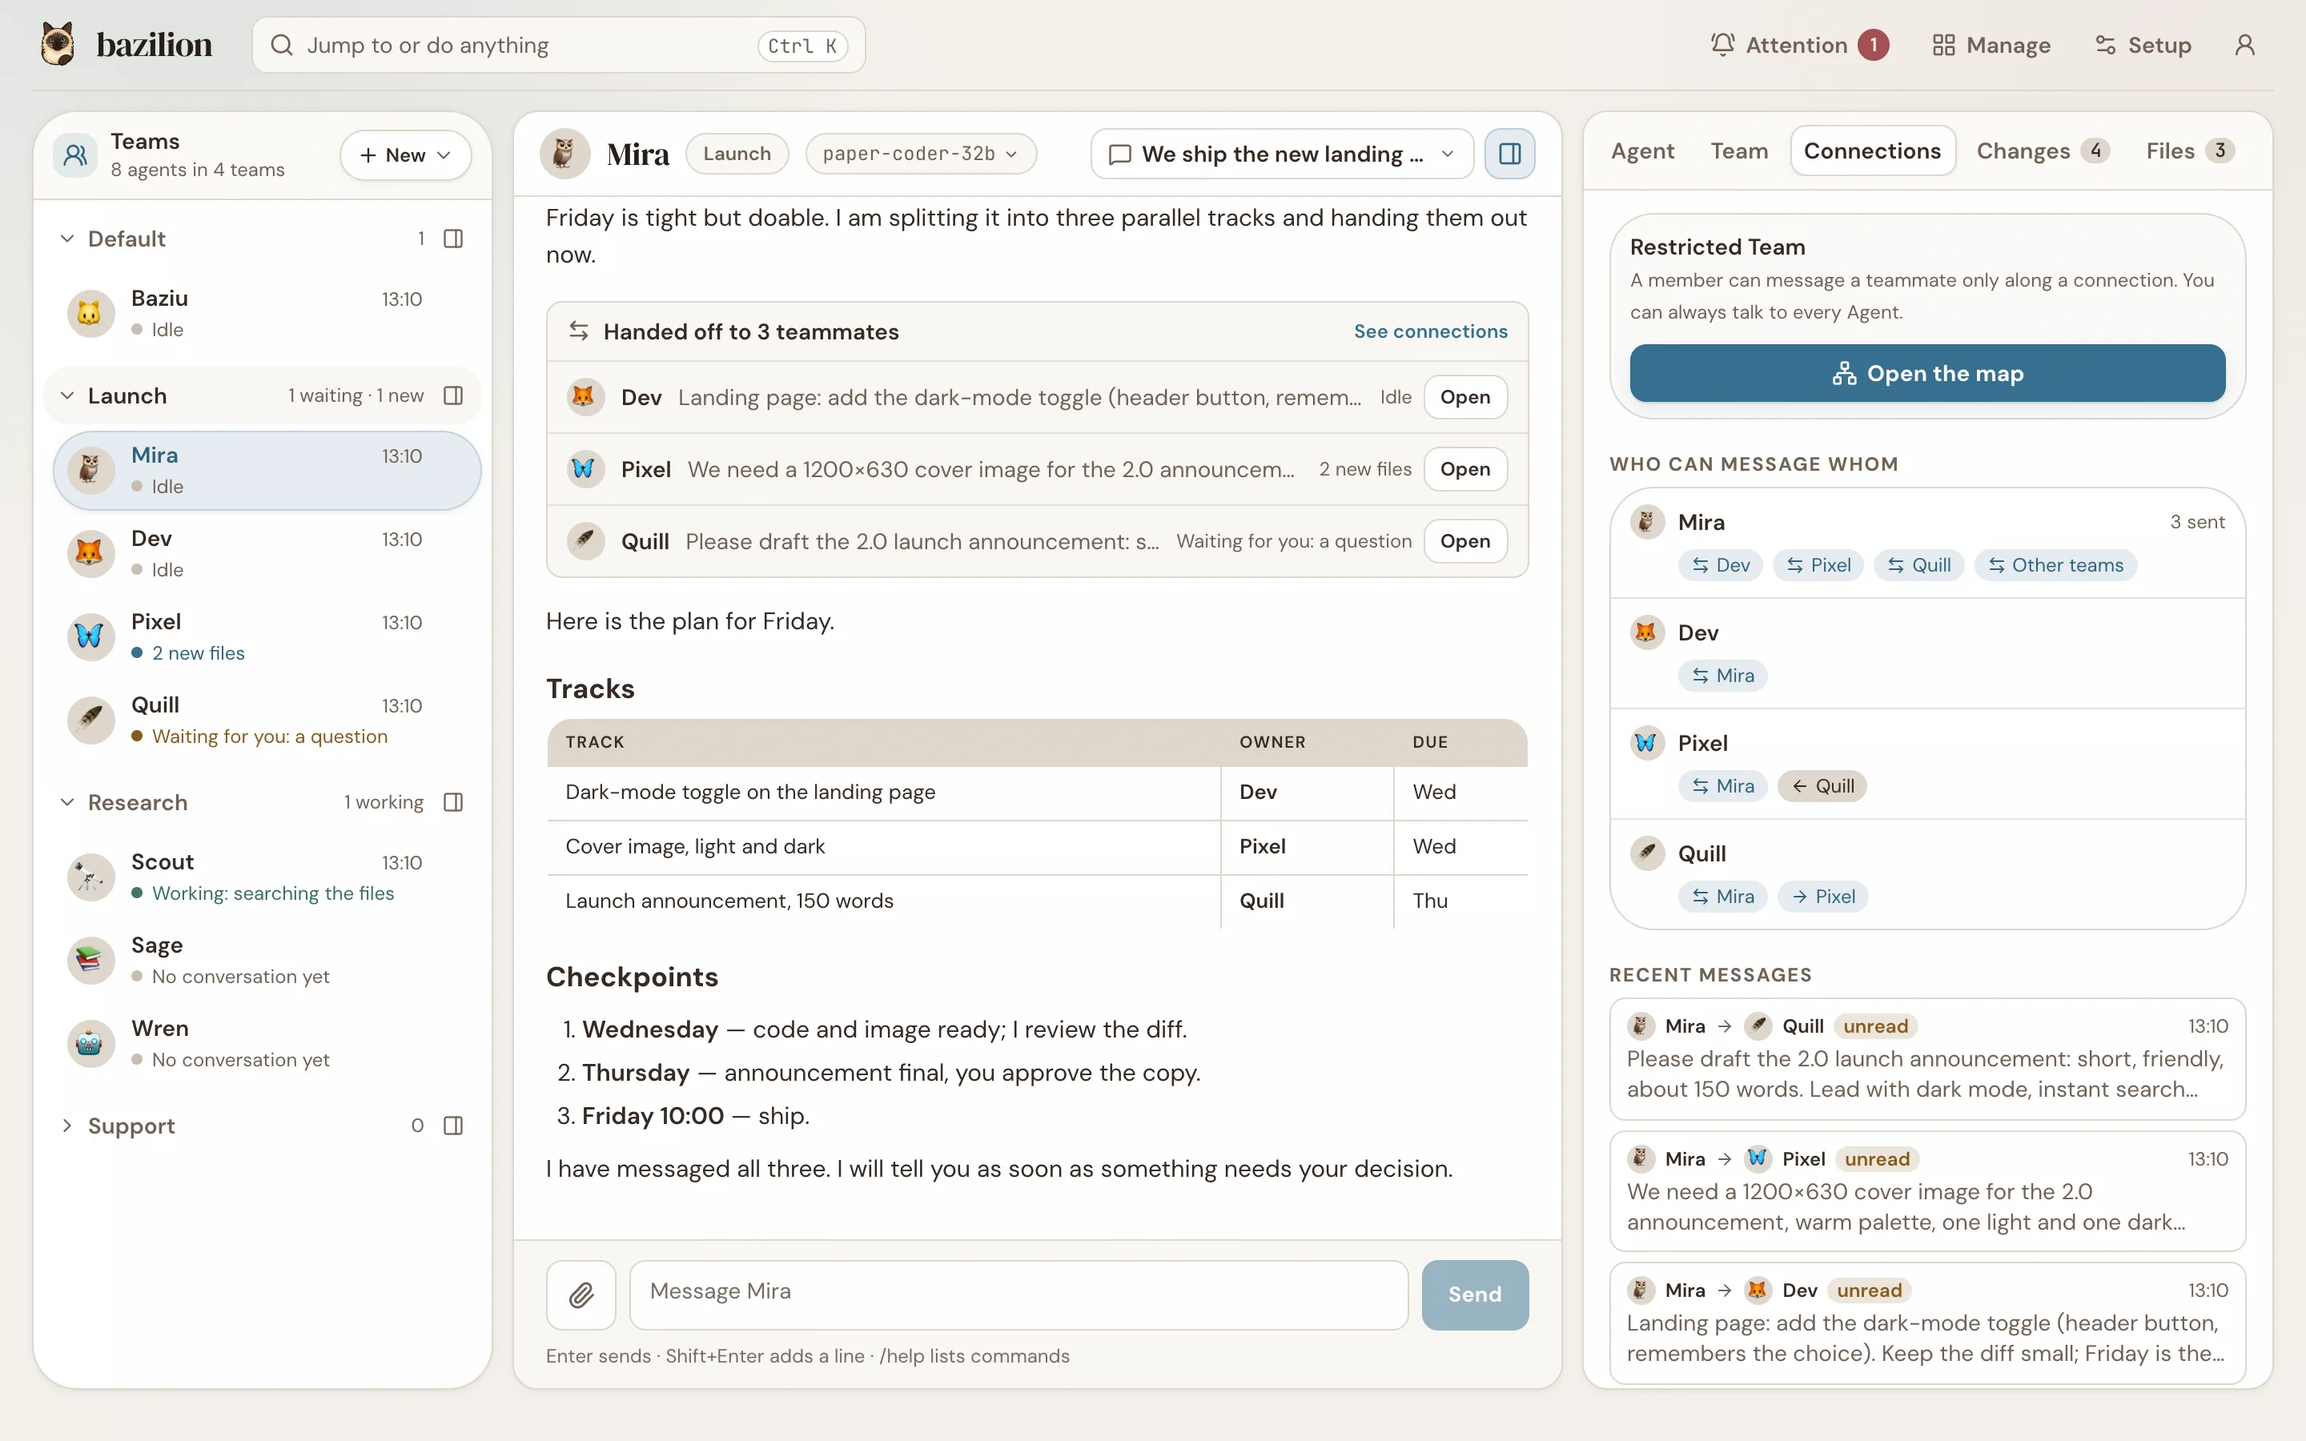
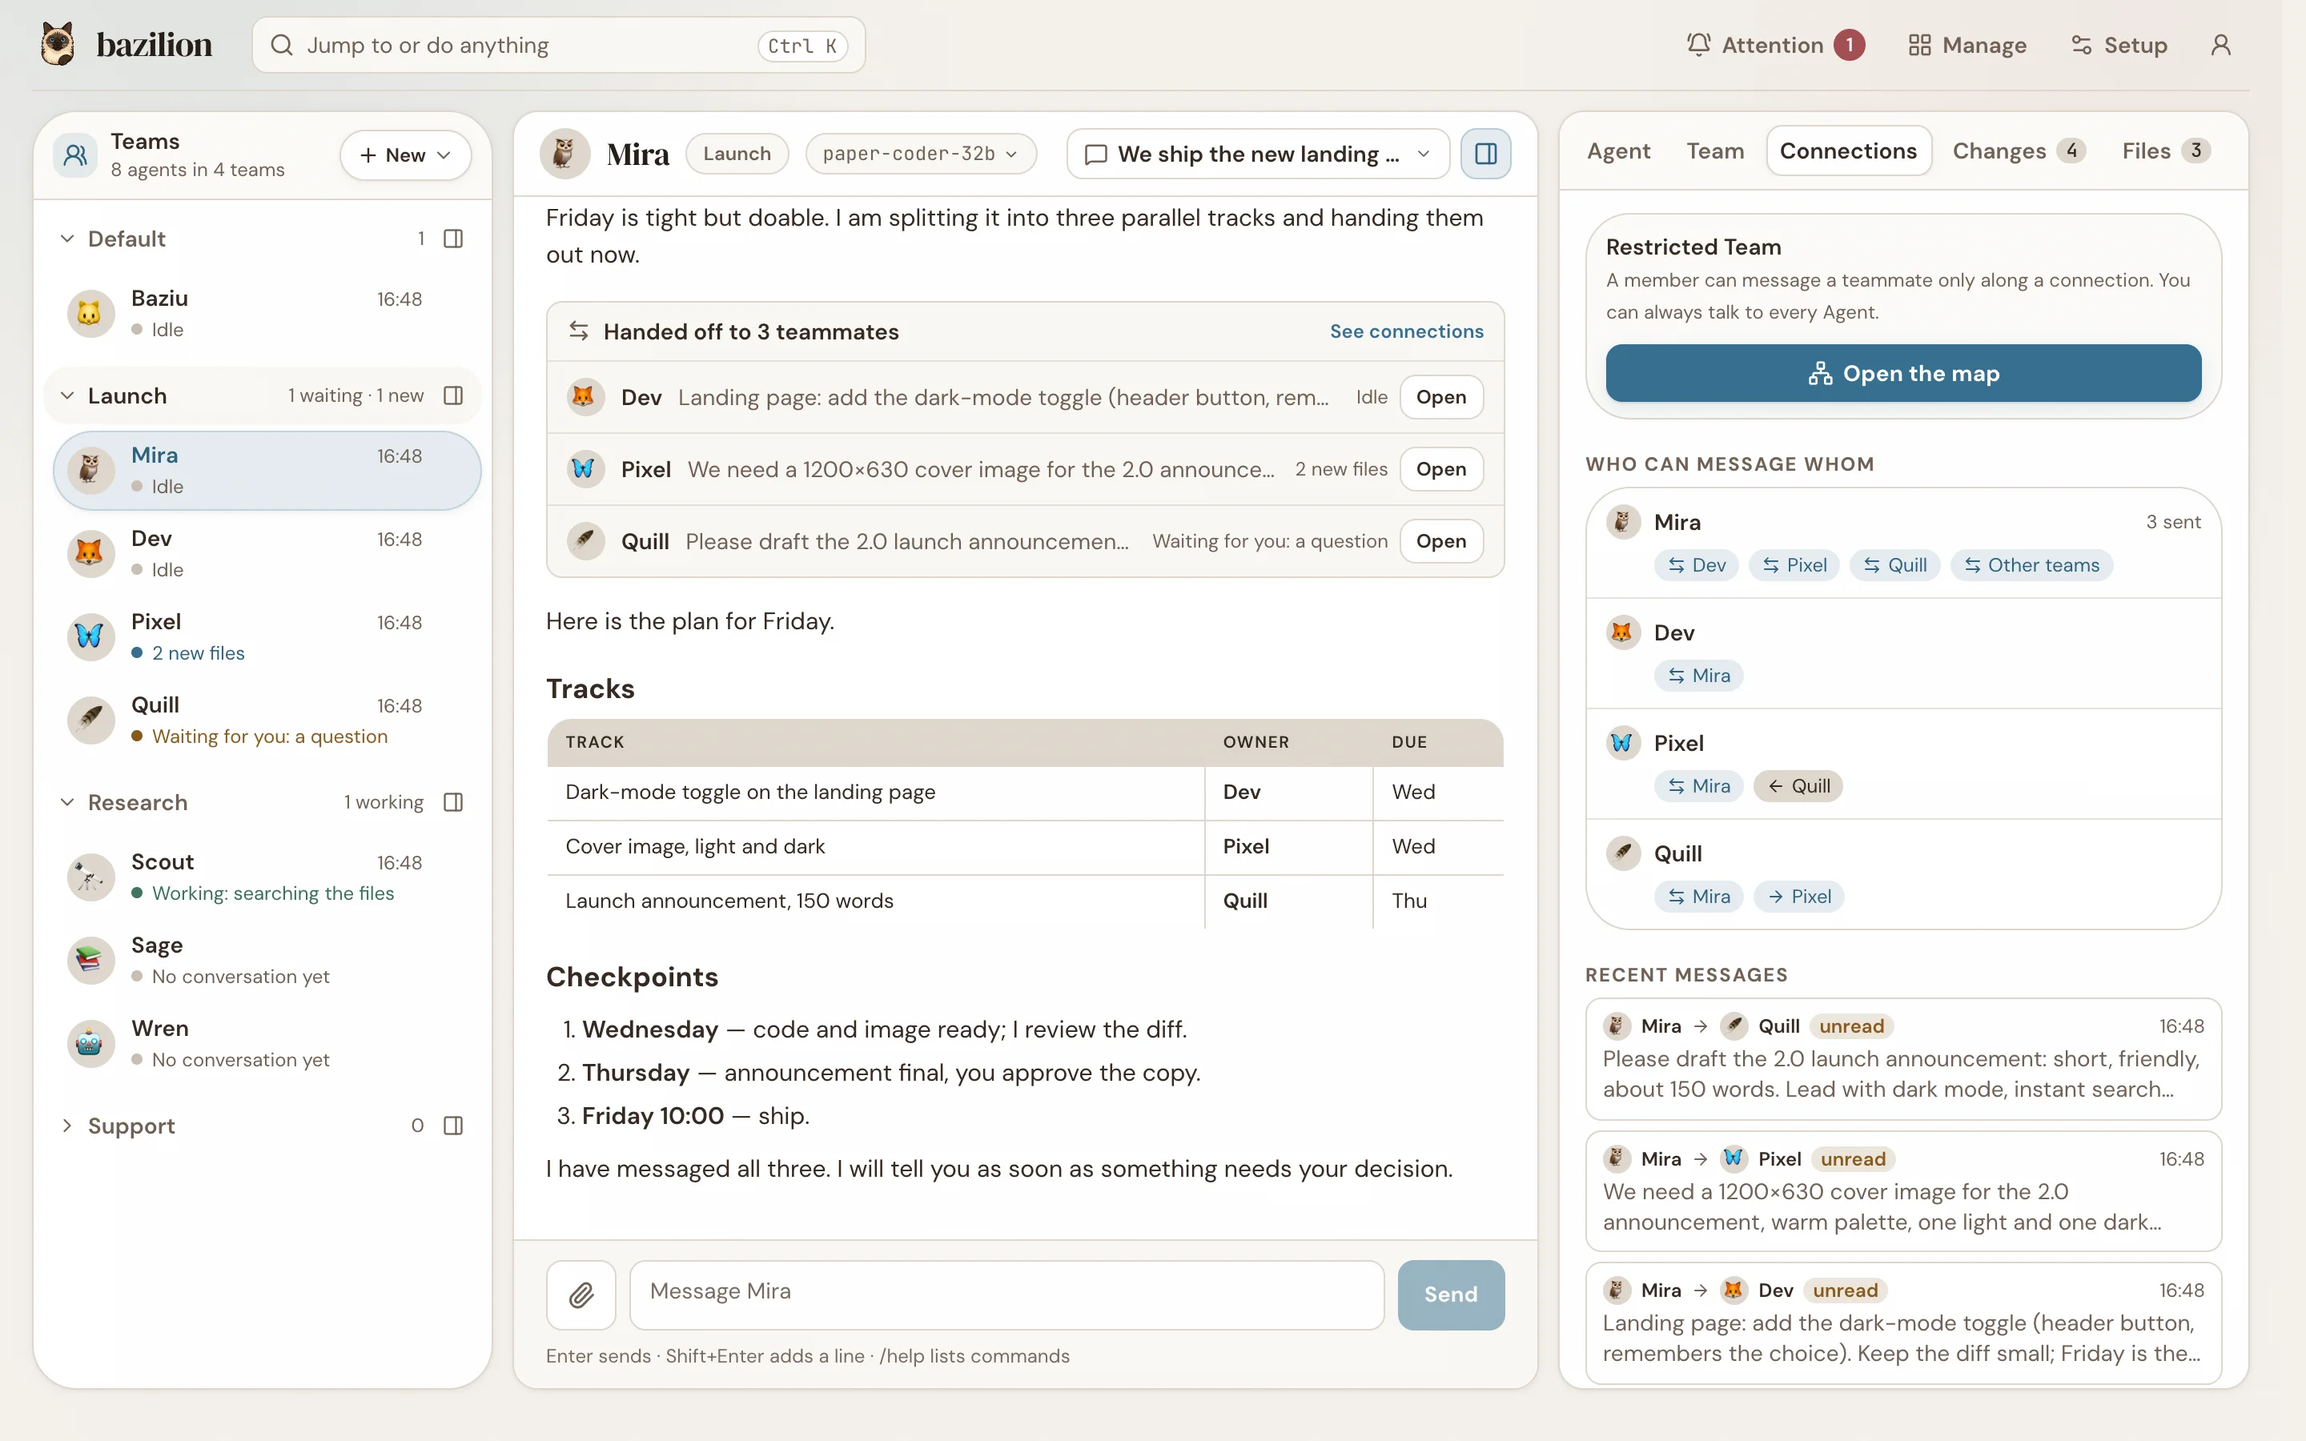
Bazilion 0.57.0: teammates, live lists, kept places
What's new gets 0.57.0 and drops 0.53.0; current-release references move
to 0.57.0; the concepts, tools and web interface guides say that Agents
know their teammates and add them with agent_create, that the page
follows changes made elsewhere and keeps your place, and that the button
is Add an Agent. Every product picture retaken from 0.57.0.

diff --git a/src/content/docs/docs/whats-new.md b/src/content/docs/docs/whats-new.md
@@ -1,11 +1,74 @@
 ---
 title: What's new
-description: The latest four Bazilion releases, newest first; Bazilion 0.56.0 bundles Pi 1.6.0.
+description: The latest four Bazilion releases, newest first; Bazilion 0.57.0 bundles Pi 1.6.0.
 ---
 
 The latest four releases, newest first. Older releases are in
 [GitHub Releases](https://github.com/rullopat/bazilion/releases). Each section describes its own
 release; the rest of the documentation describes the current one.
+
+## Bazilion 0.57.0
+
+Published **2026-11-23**. A release of polish and fixes. Agents know who their teammates are and
+add teammates when you ask; the web UI follows changes made anywhere, keeps your place in each
+conversation, and no longer resets what you are reading when a turn ends. A walk-through of the
+whole app found sixteen more rough edges, and most are fixed here. The embedded Pi engine stays
+at 1.6.0. See the
+[GitHub release](https://github.com/rullopat/bazilion/releases/tag/v0.57.0) and the
+[Agents concepts](/docs/concepts/#agents).
+
+![Mira's conversation with a hand-off card for three teammates, and the Connections tab beside it.](/screenshots/handoffs.webp)
+
+### Upgrade: install and start again
+
+The database schema is unchanged, so a 0.26, 0.27 or 0.50 to 0.56 home opens as it is. Stop the
+daemon, then:
+
+```sh
+npm install -g bazilion@0.57.0
+bazilion dashboard
+```
+
+### Added
+
+- **Agents know their teammates.** Every turn tells an Agent its teammates' names and ids, which
+  of them Team Policy lets it message, and the Agents of other Teams it may reach. You no longer
+  paste ids into the chat, and `send_message` takes a teammate's name.
+- **Agents add teammates when you ask.** The new `agent_create` tool adds an Agent to the asking
+  Agent's own Team, with its model and template unless it names others. The new Agent starts
+  knowing its role and who made it, without the first-run questions; in a restricted Team it is
+  connected with its creator both ways. Only in a turn you started (a chat, a follow-up,
+  Telegram), at most six per turn.
+
+### Changed
+
+- **The page follows changes made elsewhere.** A Team or an Agent created, renamed, moved or
+  archived from a terminal, by an Agent running `bazilion` or in another tab shows up without a
+  reload. A question asked or answered elsewhere comes and goes in the open conversation.
+- **Your place is kept.** Going to another Agent and back opens the conversation where you left
+  it, with your unsent text still in the composer. A finished turn reloads the diff, Files and
+  the panels while they stay on screen, instead of flashing "Loading" and jumping to the top.
+- **The first-run questions wait for you.** A new Agent whose first message comes from a teammate
+  or a schedule does the work instead of asking what to call it, and the questions skip what
+  USER.md already says.
+- **A stopped reply says so**, and on a narrow screen the side panel closes with Escape. The
+  button is called **Add an Agent** everywhere.
+
+### Fixed
+
+- Long Team, Agent or model names no longer push the conversation bar's menu and panel button out
+  of reach.
+- A Team whose folder is not a Git repository no longer logs a failed request each time one of
+  its Agents is opened, and `bazilion team review show` says so instead of crashing.
+- A memory note named without `.md` gets it, and a name leaving the memory folder is refused with
+  a clear message.
+- What you type straight after ⌘K or Ctrl+K is kept, and closing **Jump to** gives the focus back.
+
+### Limits
+
+- Kept places and drafts last while the page is open; a reload opens every conversation at its
+  end.
+- `agent_create` adds Agents to the asking Agent's own Team only; it does not create Teams.
 
 ## Bazilion 0.56.0
 
@@ -237,72 +300,3 @@ you** in the Team tab if you want Agents to fill it in from scratch.
 - The changes were checked by hand and by script in Chrome on macOS, at desktop and phone width
   and in the dark theme, with a stand-in model server; the automated tests cover their logic on
   Linux but do not drive a browser.
-
-## Bazilion 0.53.0
-
-Published **2026-11-22**. Agents, Teams, their templates and skills came to be managed from one
-**Manage** section that looks and works like Setup: each page shows what there is first, creates
-in a dialog, and says what is worth knowing on each row. Setup's Telegram, System, MCP and Access
-pages took the same cards as Models and Tools. The embedded Pi engine stayed at 1.5.2. See the
-[GitHub release](https://github.com/rullopat/bazilion/releases/tag/v0.53.0) and
-[the Manage pages](/docs/web-interface/#manage).
-
-![Manage, Agents: Agents grouped by Team under a search box and a Current, Archived and All filter, each with its template and model, and a menu on each row.](/screenshots/manage-agents.webp)
-
-### Upgrade: install and start again
-
-The database schema was unchanged, so a 0.26, 0.27, 0.50, 0.51 or 0.52 home opened as it was, and
-nothing was set or moved by the upgrade. The Templates page became two tabs of Manage, **Agent
-templates** (`/templates/agents`) and **Team templates** (`/templates/teams`), at the addresses
-they had. The current commands are in [Upgrade to 0.26.0](/docs/getting-started/#upgrade-to-0260).
-
-### Added
-
-- **One Manage section.** Agents, Teams, Agent templates, Team templates and Skills share one tab
-  bar. Each page shows its list first; **Spawn an agent**, **Create a Team**, **New Agent
-  template**, **New Team template** and **Import skills** open a dialog. The rarer and destructive
-  actions of a row are behind its **⋯** button, and one the daemon would refuse is shown disabled,
-  with the reason.
-- **Agents by Team.** Agents are grouped by Team, found by name, creature or vibe, and filtered to
-  current, archived or all. Each row says its template and the model it answers with, and says
-  so when that model is not in Chat. **Move to another Team** is in the row's menu.
-- **An Agent template's page** has a **Settings** card (name, default model, skills) and a
-  **Files** card that shows one file at a time and saves every changed file with one **Save**. A
-  banner says when the template's model is not in Chat. **Spawn an agent** is on the page.
-- **Team templates spawn from the list and from their page.** A row shows the roster; the spawn
-  dialog asks for a new Team or one that exists. The roster editor speaks of Agents and
-  connections.
-- **Skills that need a look stand out.** A risky finding or a SKILL.md that cannot be read is
-  shown under the skill and in a banner; each row says which templates chose the skill.
-
-![An Agent template's page: the Settings card with its name, default model and chosen skills, and the Files card with SOUL.md open.](/screenshots/agent-template.webp)
-
-### Changed
-
-- **Creating a Team** asks for a name and makes the ID from it, then asks where its files are: a
-  new folder in the Bazilion home, or a project folder that exists, which the Team links to.
-- **Attention** says how many items are open in one line, filters by state, kind and severity in
-  one row, and gives times as "2 hours ago".
-- **Setup's Telegram, System, MCP and Access** use the same cards as Models and Tools. Telegram's
-  forms say what they need before they are saved (both credentials, a numeric group id, the token
-  again for a new group), and its **Bot** card says whether the bot runs.
-- **Telegram pairing is noticed by itself.** While a code waits, the **Owner pairing** card checks
-  every few seconds, and allowed users can be added as soon as the owner is paired.
-- **Keyboard.** Row menus, a template's file tabs (arrow keys, Home, End) and controls that
-  replace each other keep focus where it belongs; a menu item that cannot be used is still
-  reached, so its reason is read.
-
-### Fixed
-
-- **Skills and Attention no longer fail to load cleanly** in a browser whose language or time zone
-  differs from the computer Bazilion runs on: their dates were written twice, differently.
-- **Delete is no longer offered for an Agent template that a Team template uses**: the daemon
-  always refused it.
-
-### Limits
-
-- The workspace's side panel and sheets kept their own cards (0.54.0 moved them onto the shared
-  ones).
-- The Teams list did not say whether a Team's folder links to a project.
-- The new pages were checked by hand and by script in Chrome on macOS with a stand-in model
-  server; the automated tests covered their logic on Linux but did not drive a browser.

diff --git a/src/content/docs/docs/concepts.md b/src/content/docs/docs/concepts.md
@@ -12,7 +12,7 @@ Bazilion is built on
 [Pi's coding agent](https://www.npmjs.com/package/@earendil-works/pi-coding-agent). Pi runs the
 turn loop and the provider calls, compacts history and writes the JSONL transcript under each
 Agent's `sessions/` directory. Bazilion supplies Agents and Teams, credentials, the tool list, the
-worker processes and the long-lived browser and MCP connections. Version 0.56.0 bundles Pi 1.6.0,
+worker processes and the long-lived browser and MCP connections. Version 0.57.0 bundles Pi 1.6.0,
 with Pi's own discovery of extensions, skills, prompt templates and context files switched off.
 
 ## Profiles (Agent templates)
@@ -26,8 +26,15 @@ templates**; the CLI is `bazilion profile`. Editing a Profile affects future spa
 
 An **Agent** is spawned from a Profile into one Team. Its documents and conversations live in
 `~/.bazilion/agents/<id>/`: it edits its own documents with the `home_*` tools, and
-`BOOTSTRAP.md` stays until the Agent calls `bootstrap_done`. You can change an Agent's model,
-reasoning level and skills after spawning, move it to another Team, archive it or delete it.
+`BOOTSTRAP.md` stays until the Agent calls `bootstrap_done`. The first-run questions are asked
+only in a conversation you start: a teammate's message or a schedule gets the work done first.
+You can change an Agent's model, reasoning level and skills after spawning, move it to another
+Team, archive it or delete it.
+
+An Agent can also add Agents to its own Team when you ask it to, with the `agent_create` tool: it
+names them and says what each is for, and they start knowing their role and who made them,
+without the first-run questions. In a restricted Team each is connected with its creator both
+ways. Agents never add teammates on their own, from a schedule or from a teammate's message.
 
 ## Teams
 
@@ -96,7 +103,9 @@ instead.
 
 ## Mailbox
 
-Agents message each other with `send_message`, `read_inbox` and `wait_for_reply`. An idle Agent
+Agents message each other with `send_message`, `read_inbox` and `wait_for_reply`. Every turn
+tells an Agent its teammates' names and ids, and which of them [Team Policy](#team-policy) lets
+it message, so it can write to a teammate by name; you never pass ids around. An idle Agent
 with unread mail wakes up and gets one turn with those messages. Every message carries a hop
 count, and a chain is stopped after 8 hops (`BAZILION_AGENT_LOOP_MAX_HOPS`); stopped chains show
 in Attention and in `bazilion inbox loop-breaks <agent>`. From outside the loop:

diff --git a/src/content/docs/docs/configuration.md b/src/content/docs/docs/configuration.md
@@ -10,7 +10,7 @@ CLI and the web UI are clients of its HTTP API.
 
 Models are written `provider:model`, for example `anthropic:claude-fable-5-2`,
 `openai-codex:gpt-6.2-sol` or `lmstudio:my-loaded-model`. Model ids come from Pi's bundled
-catalog; Bazilion 0.56.0 bundles Pi 1.6.0. An id that is not in the catalog is refused as
+catalog; Bazilion 0.57.0 bundles Pi 1.6.0. An id that is not in the catalog is refused as
 "Unknown model" unless the provider has an endpoint you configured, so a typo never sends a key to
 another vendor.
 
@@ -103,7 +103,7 @@ bazilion provider models anthropic       # in use, and offered
 bazilion provider models-set anthropic claude-fable-5-2,claude-haiku-5-5
 ```
 
-Wherever a model is chosen (an Agent's **Agent** tab, **Spawn an agent**, an Agent template) the
+Wherever a model is chosen (an Agent's **Agent** tab, **Add an Agent**, an Agent template) the
 menu shows these names by provider, with how much each model reads and whether it sees images.
 The CLI and the API keep the `provider:model` id.
 

diff --git a/src/content/docs/docs/getting-started.md b/src/content/docs/docs/getting-started.md
@@ -82,8 +82,8 @@ bazilion agent chat <agent-id> --message "say hi"
 There are no database migrations. A release opens a home only when its schema matches the one it
 ships; otherwise the daemon refuses to start and leaves the home untouched.
 
-**From 0.26, 0.27, 0.50, 0.51, 0.52, 0.53, 0.54 or 0.55:** 0.56.0 uses the same schema, so the
-home opens as it is. Stop the daemon, run `npm install -g bazilion@0.56.0` and start Bazilion
+**From 0.26, 0.27 or 0.50 to 0.56:** 0.57.0 uses the same schema, so the
+home opens as it is. Stop the daemon, run `npm install -g bazilion@0.57.0` and start Bazilion
 again. Coming from 0.26 or
 0.27, the web UI is laid out anew: see the [tour of the web interface](/docs/web-interface/).
 Coming from 0.50 or earlier, providers you had switched on keep working and read "Not tested yet"
@@ -104,7 +104,7 @@ current release:
    removes them too.
 
    ```sh
-   npm install -g bazilion@0.56.0
+   npm install -g bazilion@0.57.0
    bazilion uninstall --yes
    ```
 

diff --git a/src/content/docs/docs/coding-review.md b/src/content/docs/docs/coding-review.md
@@ -45,7 +45,8 @@ bazilion team review feedback <team> --path src/app.ts --line 42 --agent <agent>
   another page, drops it.
 - The Team's own `memory/` store and credential-shaped paths (`.env`, `*.pem`, `credentials.*`,
   `.ssh/`, …) never show content; untracked ones are only counted.
-- A Team whose workspace is not a Git repository says so instead of showing an empty list.
+- A Team whose workspace is not a Git repository says so instead of showing an empty list, and
+  `bazilion team review show` says so and exits with an error.
 
 The API is `GET /api/teams/:id/review[?base=&patches=1&path=&authors=1]` and
 `POST /api/teams/:id/review/feedback` with
